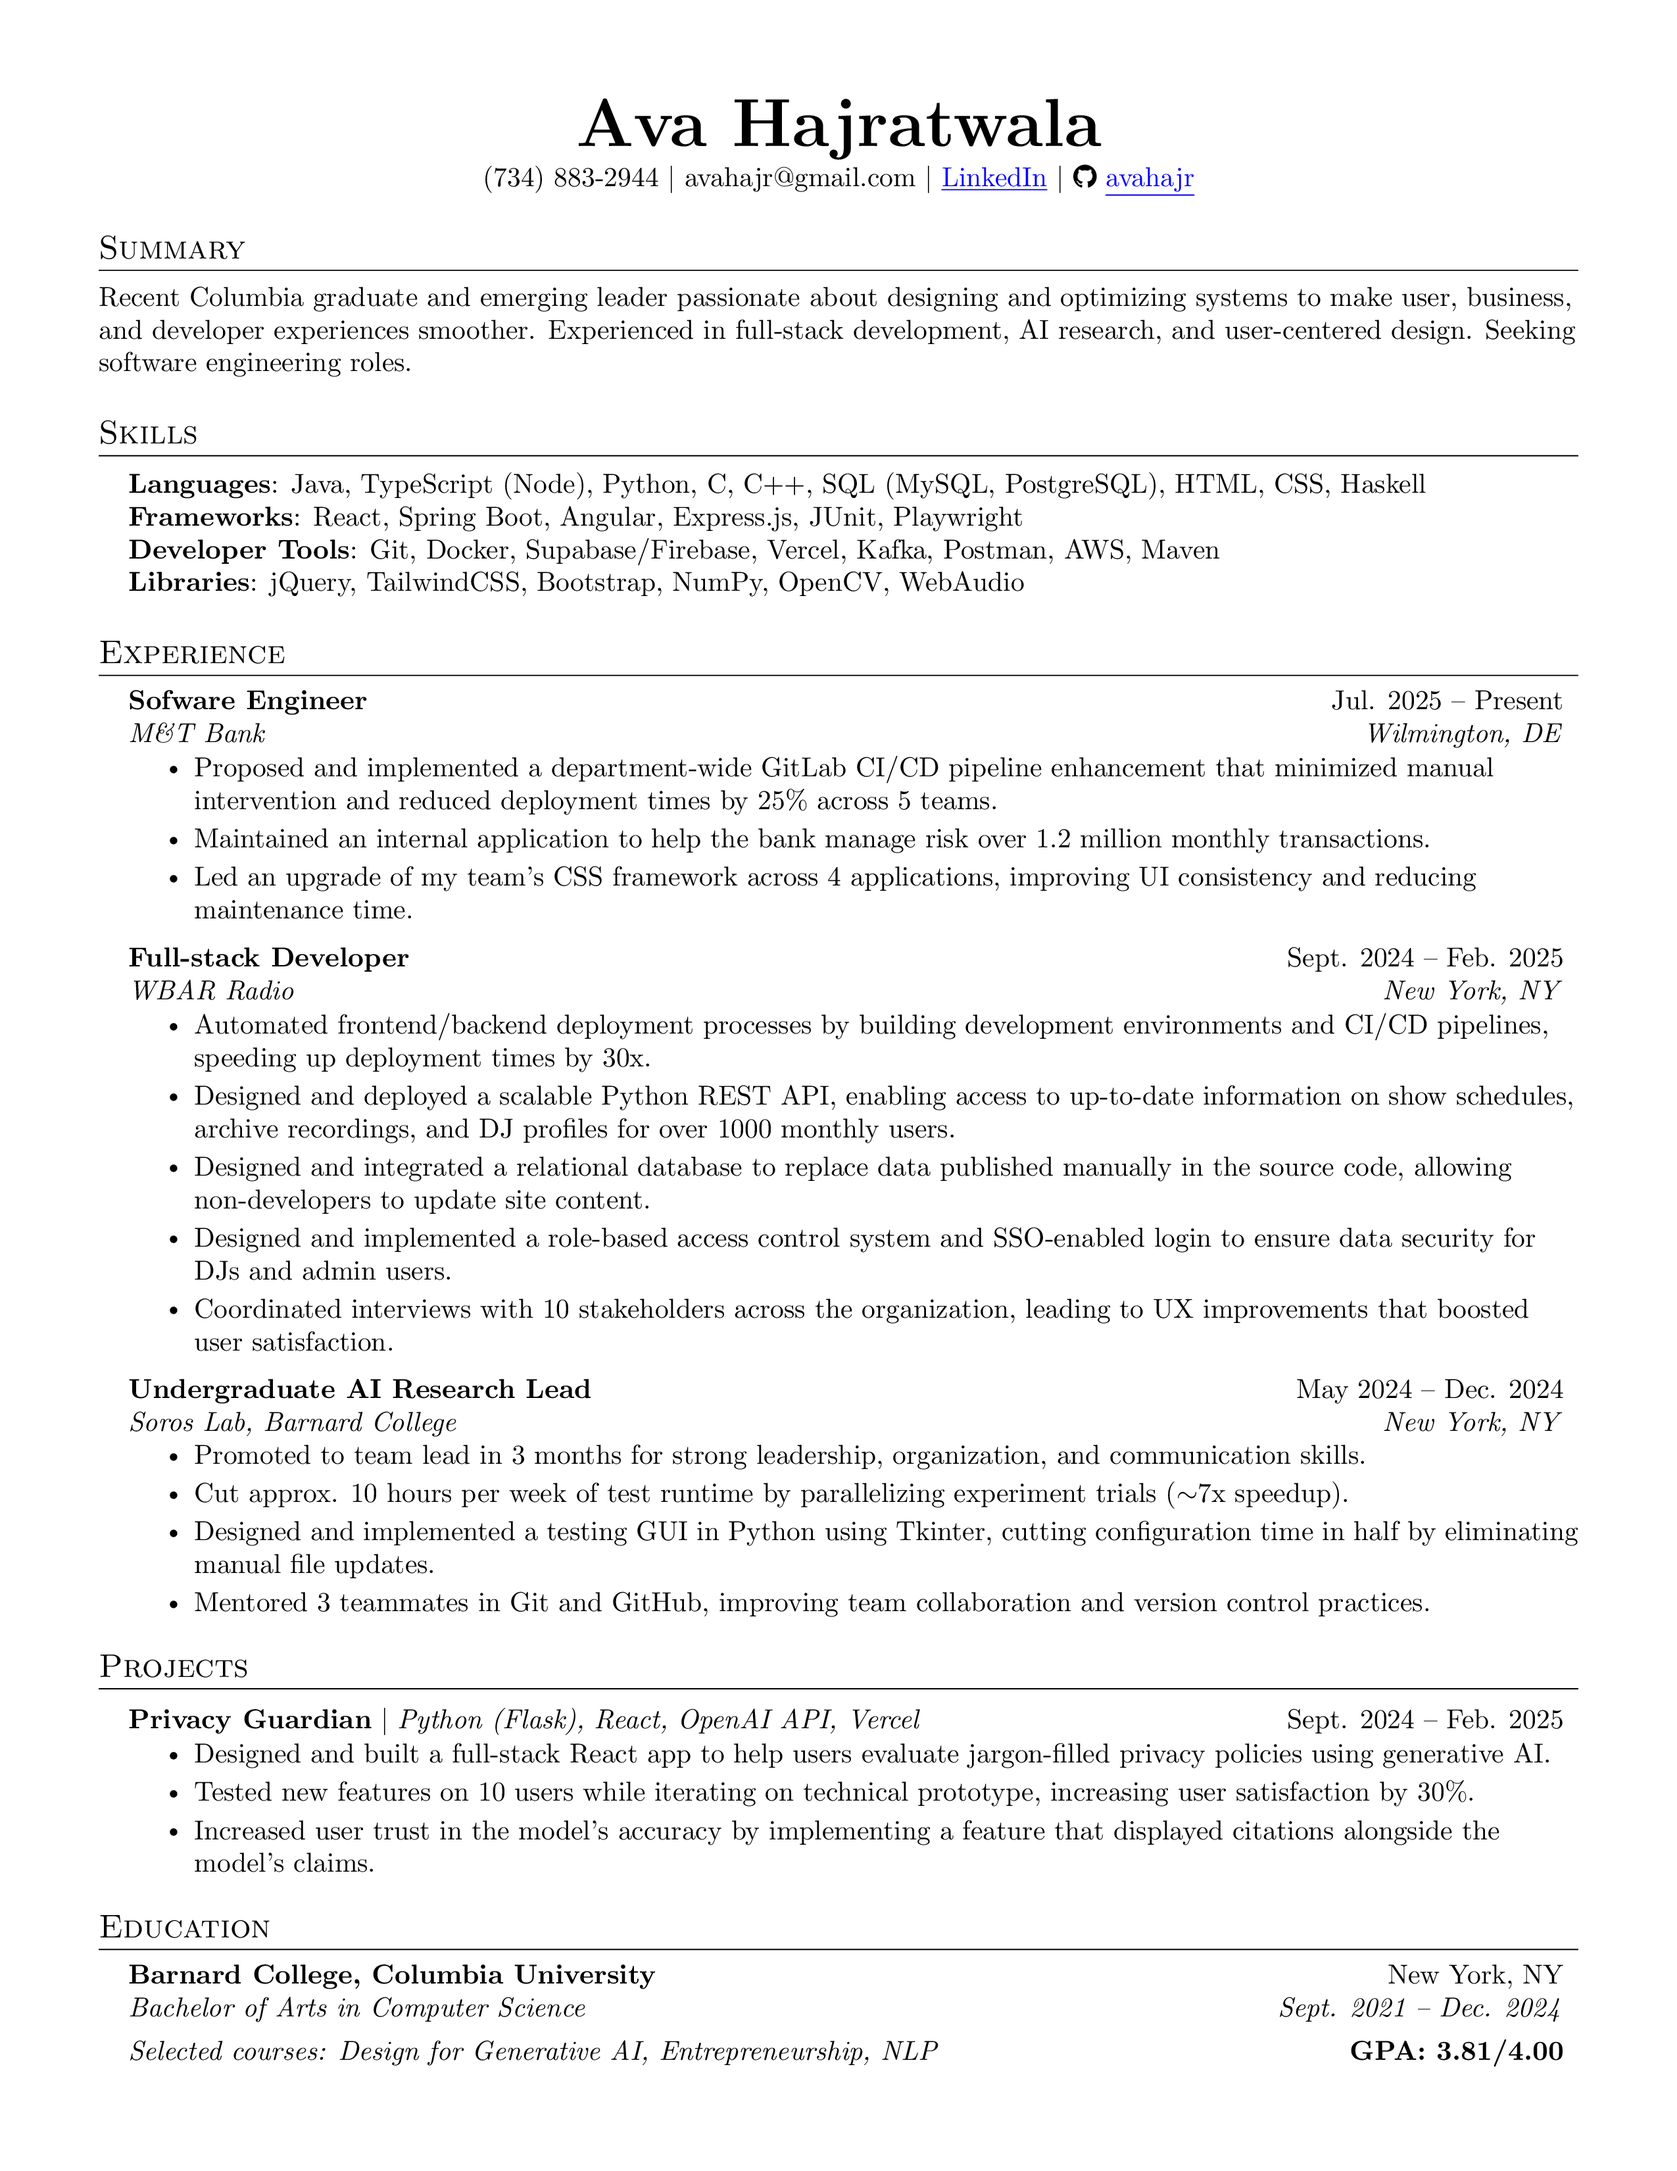
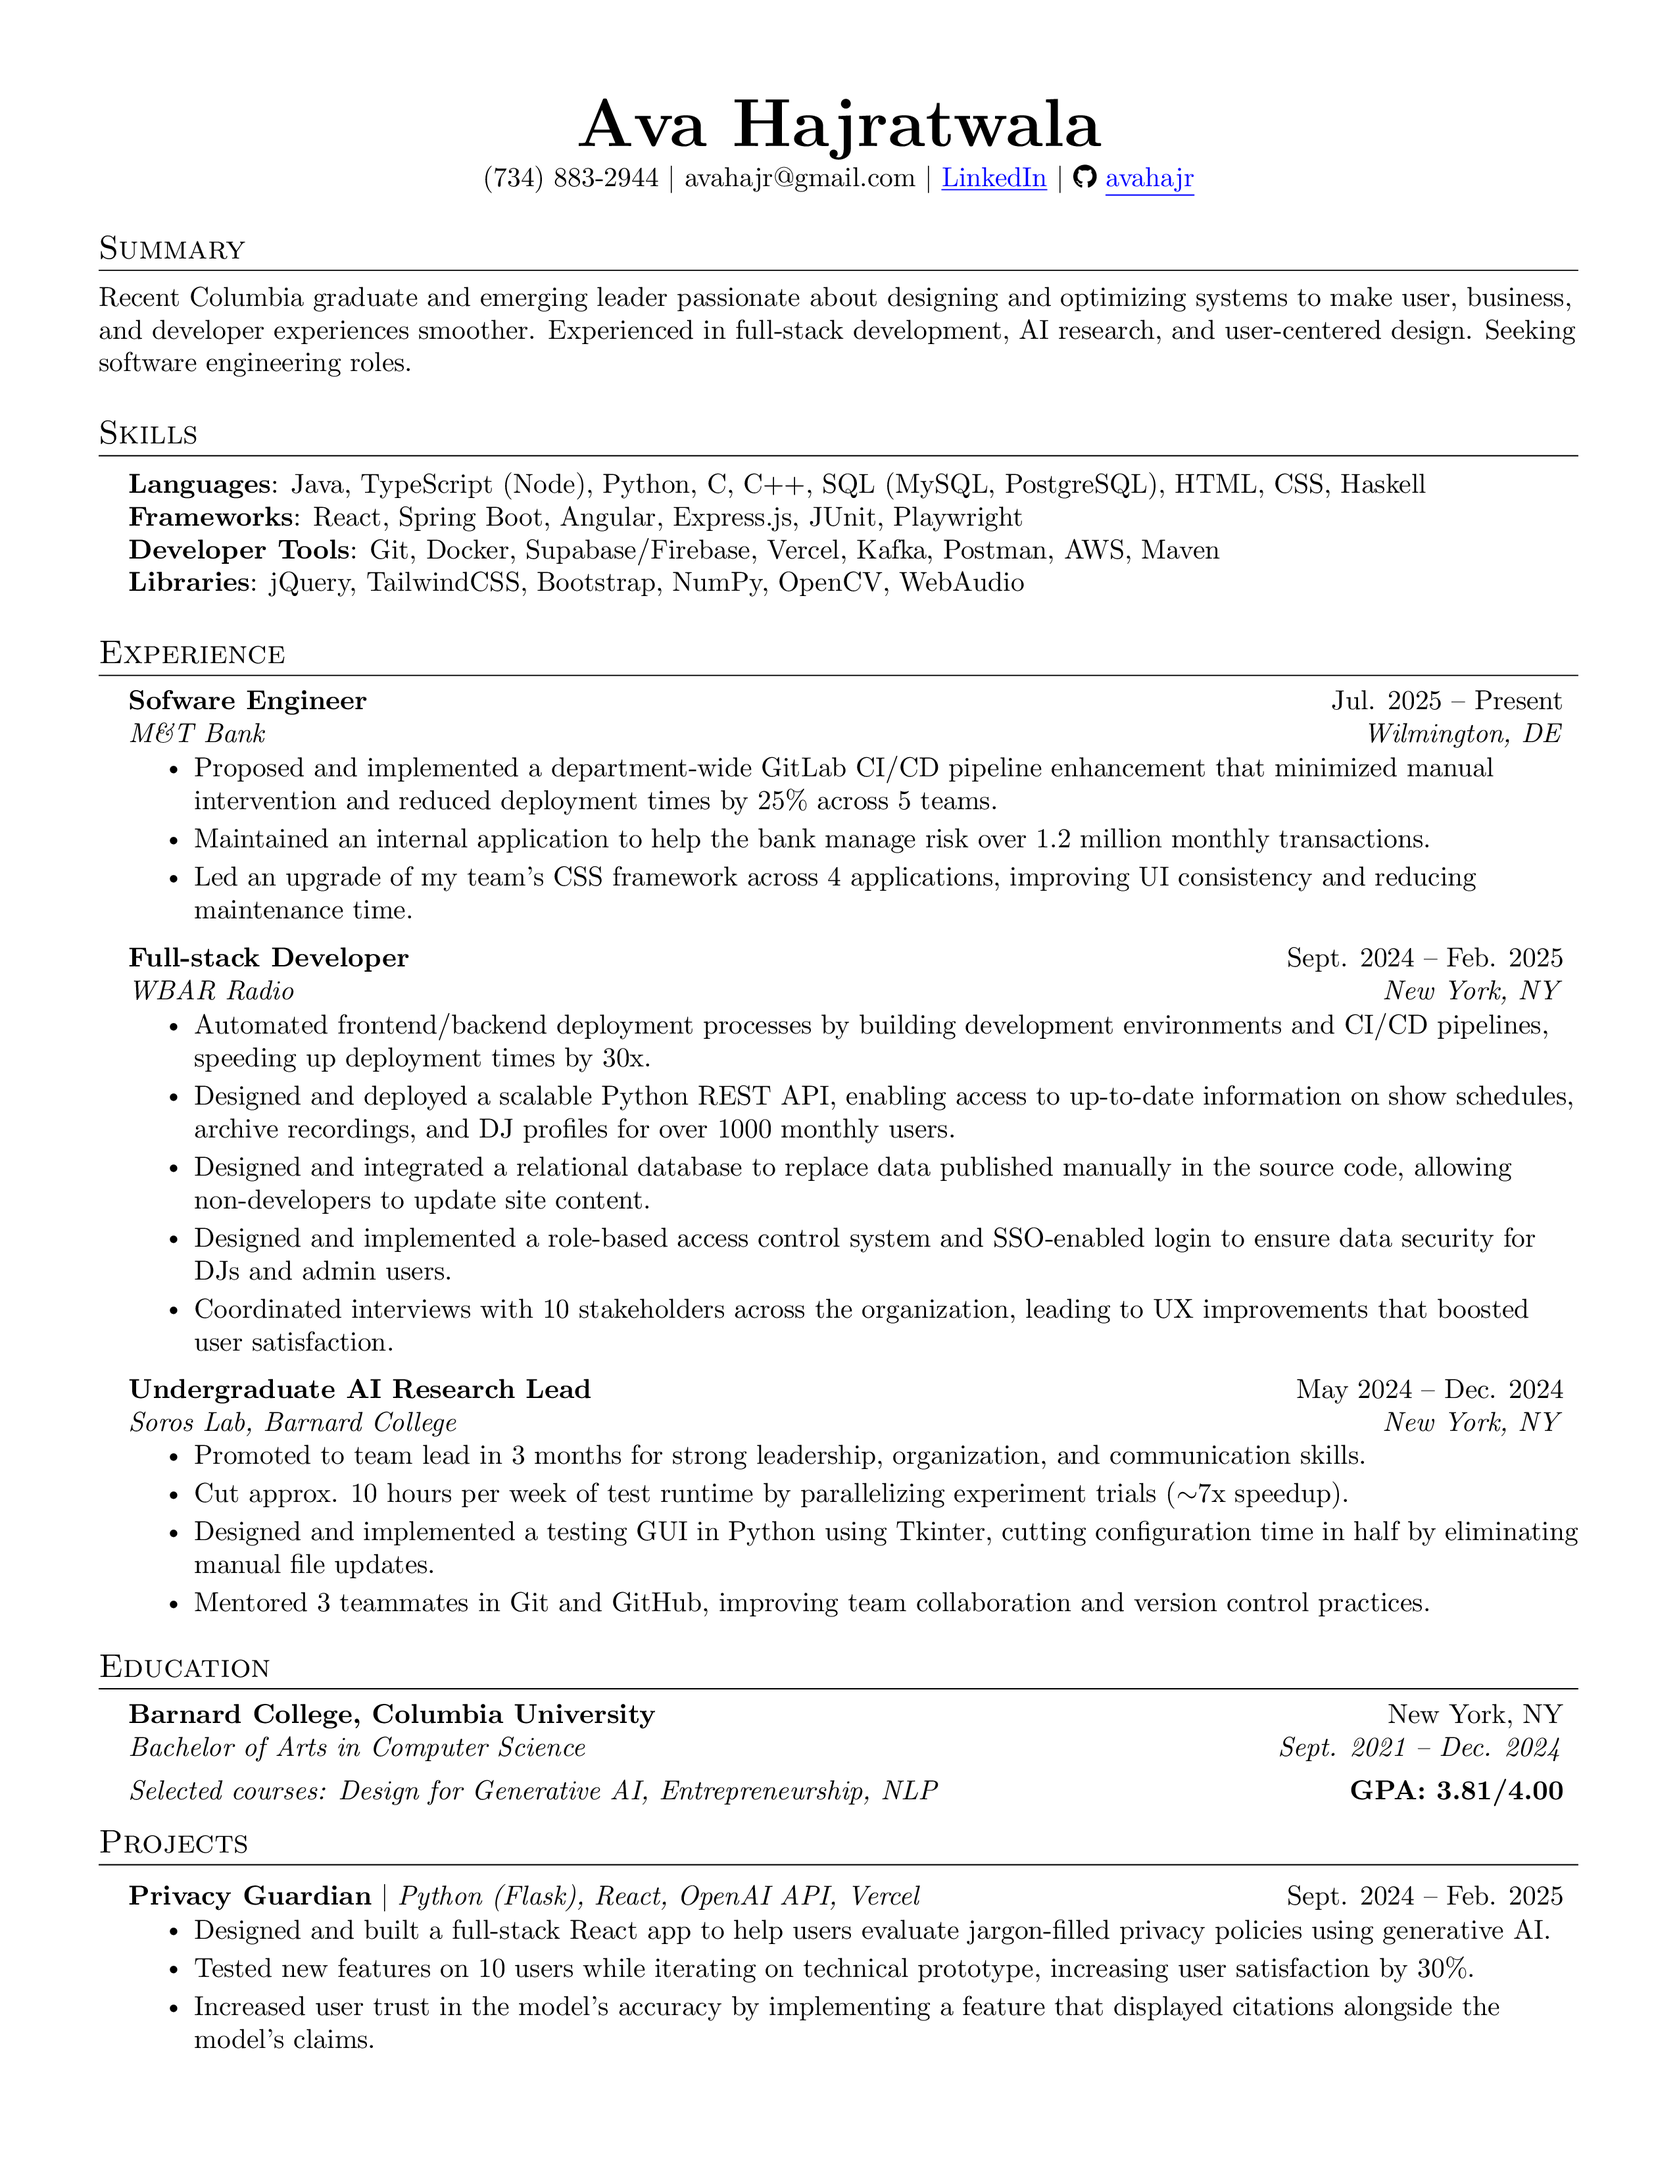
move education to above projects

Changed region(s): [[0.062, 0.7491, 0.9294, 0.9676], [0.6506, 0.8115, 0.7125, 0.8427]]

diff --git a/resume.tex b/resume.tex
@@ -19,7 +19,7 @@
     pdftex,
     pdfauthor={Ava Hajratwala},
     pdftitle={Ava Hajratwala's Resume},
-    pdfkeywords={software engineer}
+    pdfkeywords={software engineer, full-stack, java, angular, finance, banking, AI, optimization, CI/CD}
 ]{hyperref}
 \usepackage{fancyhdr}
 \usepackage[english]{babel}
@@ -196,6 +196,15 @@
 
 \resumeSubHeadingListEnd
 
+%-----------EDUCATION-----------
+\section{Education}
+\resumeSubHeadingListStart
+\resumeSubheading
+{Barnard College, Columbia University}{New York, NY}
+{Bachelor of Arts in Computer Science}{Sept. 2021 -- Dec. 2024}
+\relevantCourseWorkAndGPA{Design for Generative AI, Entrepreneurship, NLP}{3.81}
+\resumeSubHeadingListEnd
+% -------------------------------------------
 
 %-----------PROJECTS-----------
 \section{Projects}
@@ -208,18 +217,6 @@
 \resumeItem{Increased user trust in the model's accuracy by implementing a feature that displayed citations alongside the model's claims.}
 \resumeItemListEnd
 \resumeSubHeadingListEnd
-
-
-%
-
-%-----------EDUCATION-----------
-\section{Education}
-\resumeSubHeadingListStart
-\resumeSubheading
-{Barnard College, Columbia University}{New York, NY}
-{Bachelor of Arts in Computer Science}{Sept. 2021 -- Dec. 2024}
-\relevantCourseWorkAndGPA{Design for Generative AI, Entrepreneurship, NLP}{3.81}
-\resumeSubHeadingListEnd
-
 %-------------------------------------------
+
 \end{document}

diff --git a/README.md b/README.md
@@ -1,4 +1,4 @@
 # Ava's resume
-Last updated: 2025-10-19 at 13:49:42
+Last updated: 2025-10-19 at 14:13:57
 ![Resume](./Ava_Hajratwala_resume_2025-10-19.png)
 [PDF Here](./Ava_Hajratwala_resume_2025-10-19.pdf)
